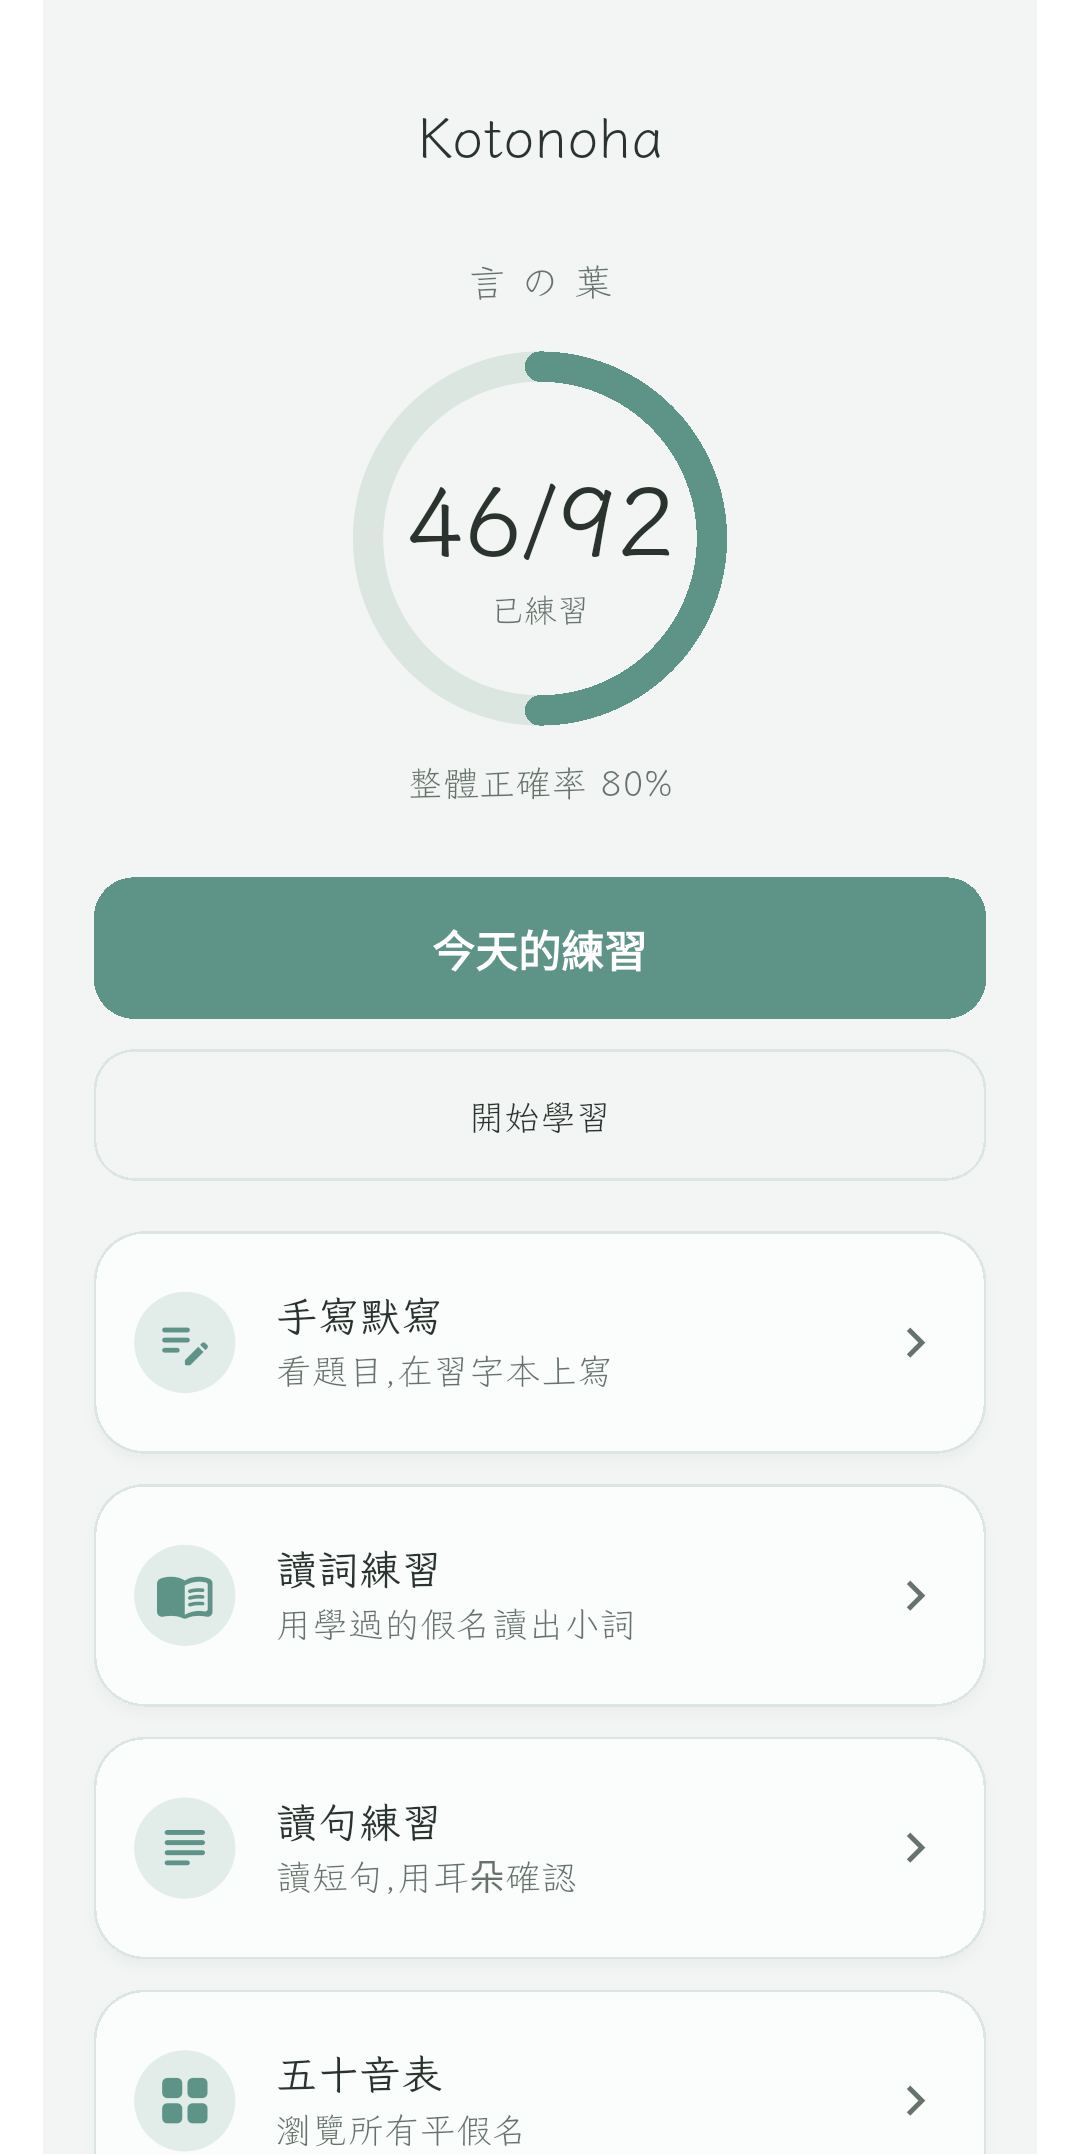
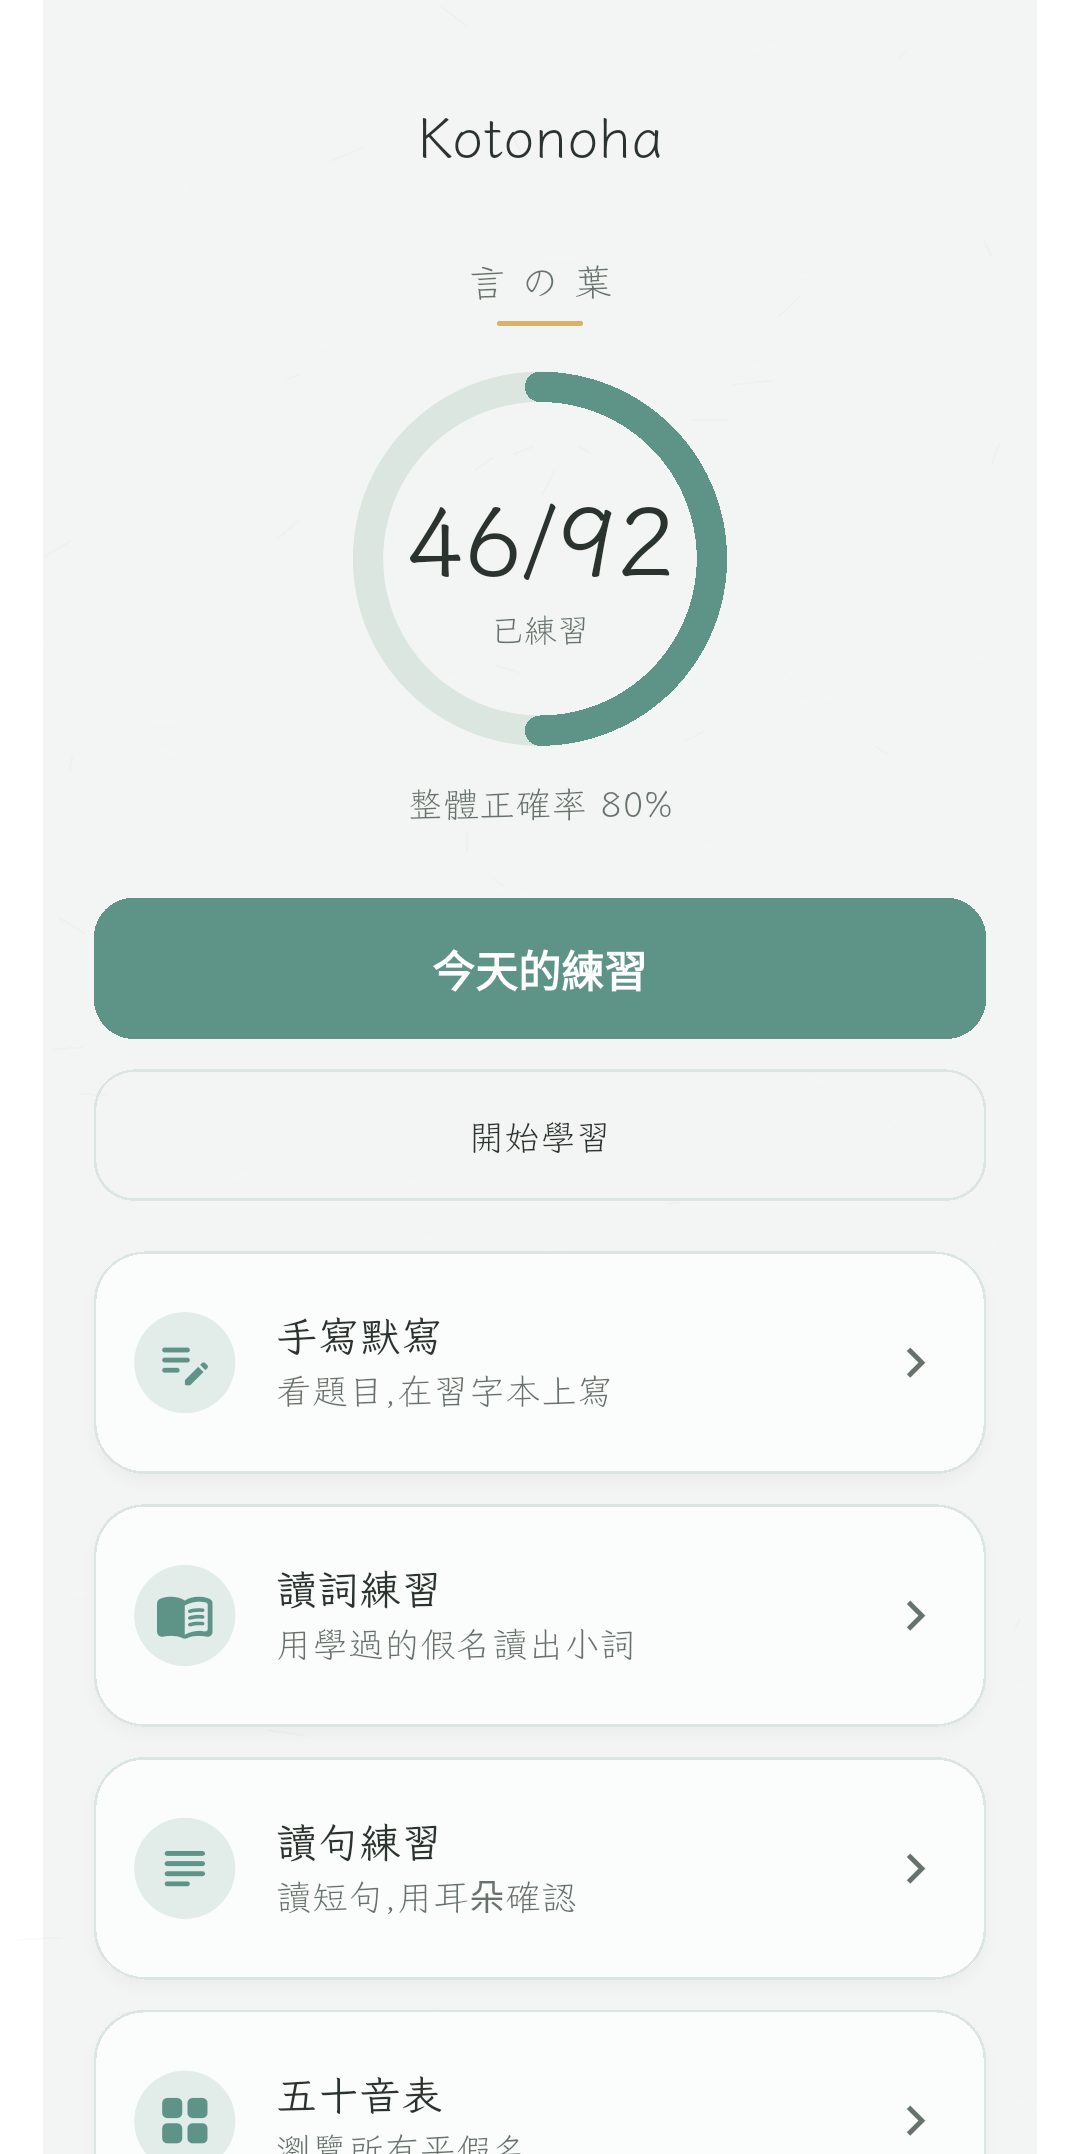
style: washi texture, komorebi light, ink transitions (aesthetics T1)
A whisper of washi paper grain behind every screen (a seeded CustomPainter — no
asset, painted once, offline); a warm komorebi (木漏れ日) gold token used as one
thread of light under the 言の葉 wordmark; and calm fade-and-rise page
transitions instead of platform slides. Scaffolds/app-bars go transparent so the
single paper backdrop carries through. Texture kept barely perceptible by design.

diff --git a/lib/ui/core/theme/app_theme.dart b/lib/ui/core/theme/app_theme.dart
@@ -20,11 +20,21 @@ abstract final class AppTheme {
     final base = ThemeData(
       useMaterial3: true,
       colorScheme: scheme,
-      scaffoldBackgroundColor: AppColors.paper,
+      // Transparent so the single washi backdrop (app.dart) shows under every
+      // scaffold rather than being painted over with a flat colour.
+      scaffoldBackgroundColor: Colors.transparent,
       // Klee One: a calm textbook-handwriting face — the kana look written, not set.
       fontFamily: 'KleeOne',
       // A soft ripple rather than the M3 sparkle — quieter, like ink spreading.
       splashFactory: InkRipple.splashFactory,
+      // Pages fade-and-rise like ink settling, not platform slides.
+      pageTransitionsTheme: const PageTransitionsTheme(
+        builders: {
+          TargetPlatform.android: _InkPageTransitionsBuilder(),
+          TargetPlatform.iOS: _InkPageTransitionsBuilder(),
+          TargetPlatform.macOS: _InkPageTransitionsBuilder(),
+        },
+      ),
     );
 
     return base.copyWith(
@@ -33,7 +43,7 @@ abstract final class AppTheme {
         displayColor: AppColors.ink,
       ),
       appBarTheme: const AppBarTheme(
-        backgroundColor: AppColors.paper,
+        backgroundColor: Colors.transparent,
         foregroundColor: AppColors.ink,
         elevation: 0,
         scrolledUnderElevation: 0,
@@ -73,6 +83,36 @@ abstract final class AppTheme {
         color: AppColors.hairline,
         thickness: 1,
         space: 1,
+      ),
+    );
+  }
+}
+
+/// A calm page transition: fade in while rising a touch, like ink settling onto
+/// paper — quieter than a platform slide.
+class _InkPageTransitionsBuilder extends PageTransitionsBuilder {
+  const _InkPageTransitionsBuilder();
+
+  @override
+  Widget buildTransitions<T>(
+    PageRoute<T> route,
+    BuildContext context,
+    Animation<double> animation,
+    Animation<double> secondaryAnimation,
+    Widget child,
+  ) {
+    final curved = CurvedAnimation(
+      parent: animation,
+      curve: Curves.easeOutCubic,
+    );
+    return FadeTransition(
+      opacity: curved,
+      child: SlideTransition(
+        position: Tween<Offset>(
+          begin: const Offset(0, 0.02),
+          end: Offset.zero,
+        ).animate(curved),
+        child: child,
       ),
     );
   }

diff --git a/lib/ui/core/widgets/washi_background.dart b/lib/ui/core/widgets/washi_background.dart
@@ -1,0 +1,53 @@
+// Copyright (c) 2026 Koopa
+// SPDX-License-Identifier: MIT
+
+import 'dart:math';
+
+import 'package:flutter/material.dart';
+import 'package:kotonoha/ui/core/theme/app_colors.dart';
+
+/// A calm washi-paper backdrop: the warm paper tone plus a faint, seeded scatter
+/// of short fibres — the single biggest "made by hand" signal, kept barely
+/// perceptible. Painted once (deterministic seed, no repaint), so it costs
+/// nothing per frame. Place it behind the app so every screen sits on paper.
+class WashiBackground extends StatelessWidget {
+  const WashiBackground({required this.child, super.key});
+
+  final Widget child;
+
+  @override
+  Widget build(BuildContext context) {
+    return CustomPaint(painter: _WashiPainter(), child: child);
+  }
+}
+
+class _WashiPainter extends CustomPainter {
+  @override
+  void paint(Canvas canvas, Size size) {
+    canvas.drawRect(Offset.zero & size, Paint()..color = AppColors.paper);
+
+    // Deterministic so the grain never flickers between frames or routes.
+    final rng = Random(7);
+    final fibreCount = (size.width * size.height / 2400).round();
+    final fibre = Paint()
+      ..strokeCap = StrokeCap.round
+      ..strokeWidth = 0.8;
+
+    for (var i = 0; i < fibreCount; i++) {
+      final x = rng.nextDouble() * size.width;
+      final y = rng.nextDouble() * size.height;
+      final len = 5 + rng.nextDouble() * 13;
+      final angle = rng.nextDouble() * pi;
+      final end = Offset(x + cos(angle) * len, y + sin(angle) * len * 0.55);
+      // Mostly pale flecks with a few darker fibres — like pulp in the sheet.
+      final dark = rng.nextInt(3) == 0;
+      fibre.color = (dark ? AppColors.ink : Colors.white).withValues(
+        alpha: dark ? 0.022 : 0.05,
+      );
+      canvas.drawLine(Offset(x, y), end, fibre);
+    }
+  }
+
+  @override
+  bool shouldRepaint(_WashiPainter oldDelegate) => false;
+}

diff --git a/lib/ui/home/home_screen.dart b/lib/ui/home/home_screen.dart
@@ -57,15 +57,30 @@ class HomeScreen extends StatelessWidget {
               padding: const EdgeInsets.fromLTRB(20, 12, 20, 32),
               children: [
                 const SizedBox(height: 8),
-                // A quiet wordmark — the name and its meaning, 言の葉.
-                const Center(
-                  child: Text(
-                    '言の葉',
-                    style: TextStyle(
-                      fontSize: 15,
-                      letterSpacing: 6,
-                      color: AppColors.inkMuted,
-                    ),
+                // A quiet wordmark — the name and its meaning, 言の葉 — under a
+                // thread of warm light (komorebi).
+                Center(
+                  child: Column(
+                    mainAxisSize: MainAxisSize.min,
+                    children: [
+                      const Text(
+                        '言の葉',
+                        style: TextStyle(
+                          fontSize: 15,
+                          letterSpacing: 6,
+                          color: AppColors.inkMuted,
+                        ),
+                      ),
+                      const SizedBox(height: 6),
+                      Container(
+                        width: 34,
+                        height: 2,
+                        decoration: BoxDecoration(
+                          color: AppColors.komorebi,
+                          borderRadius: BorderRadius.circular(1),
+                        ),
+                      ),
+                    ],
                   ),
                 ),
                 const SizedBox(height: 18),

diff --git a/lib/app.dart b/lib/app.dart
@@ -6,6 +6,7 @@ import 'package:flutter_localizations/flutter_localizations.dart';
 
 import 'package:kotonoha/ui/core/app_strings.dart';
 import 'package:kotonoha/ui/core/theme/app_theme.dart';
+import 'package:kotonoha/ui/core/widgets/washi_background.dart';
 import 'package:kotonoha/ui/home/home_screen.dart';
 
 class KanaLoopApp extends StatelessWidget {
@@ -27,6 +28,10 @@ class KanaLoopApp extends StatelessWidget {
         GlobalWidgetsLocalizations.delegate,
         GlobalCupertinoLocalizations.delegate,
       ],
+      // Every screen sits on the washi paper (scaffolds are transparent in the
+      // theme, so this single backdrop shows through under all of them).
+      builder: (context, child) =>
+          WashiBackground(child: child ?? const SizedBox.shrink()),
       home: const HomeScreen(),
     );
   }

diff --git a/lib/ui/core/theme/app_colors.dart b/lib/ui/core/theme/app_colors.dart
@@ -14,6 +14,11 @@ abstract final class AppColors {
   static const Color accent = Color(0xFF5E9387); // primary
   static const Color accentSoft = Color(0xFFE2EDEA); // soft fills
 
+  /// Warm light through leaves (木漏れ日) — the ONLY "reward" colour. Reserved
+  /// for light moments (the wordmark underline, a session's closing glow), never
+  /// for status or chrome.
+  static const Color komorebi = Color(0xFFD8B36A);
+
   // Neutrals
   static const Color paper = Color(0xFFF2F5F3); // cool washi (bg)
   static const Color card = Color(0xFFFBFDFC); // near-white surface
